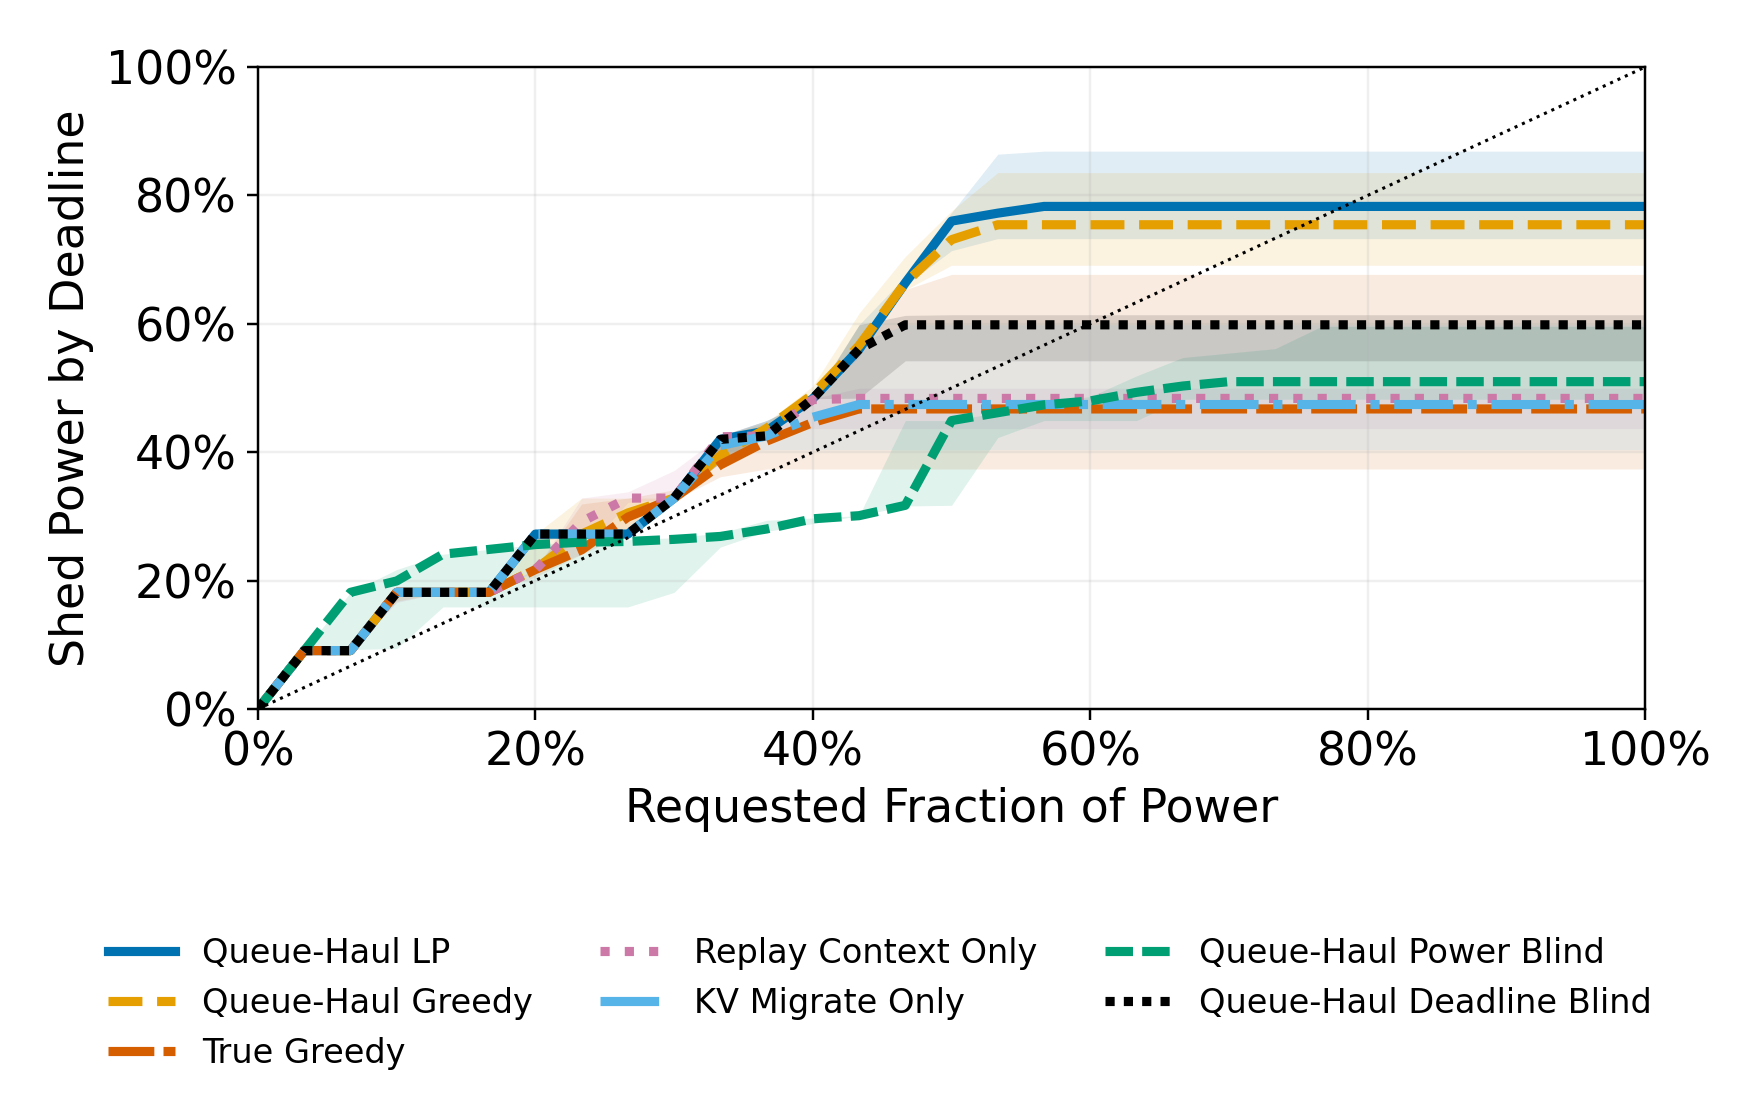
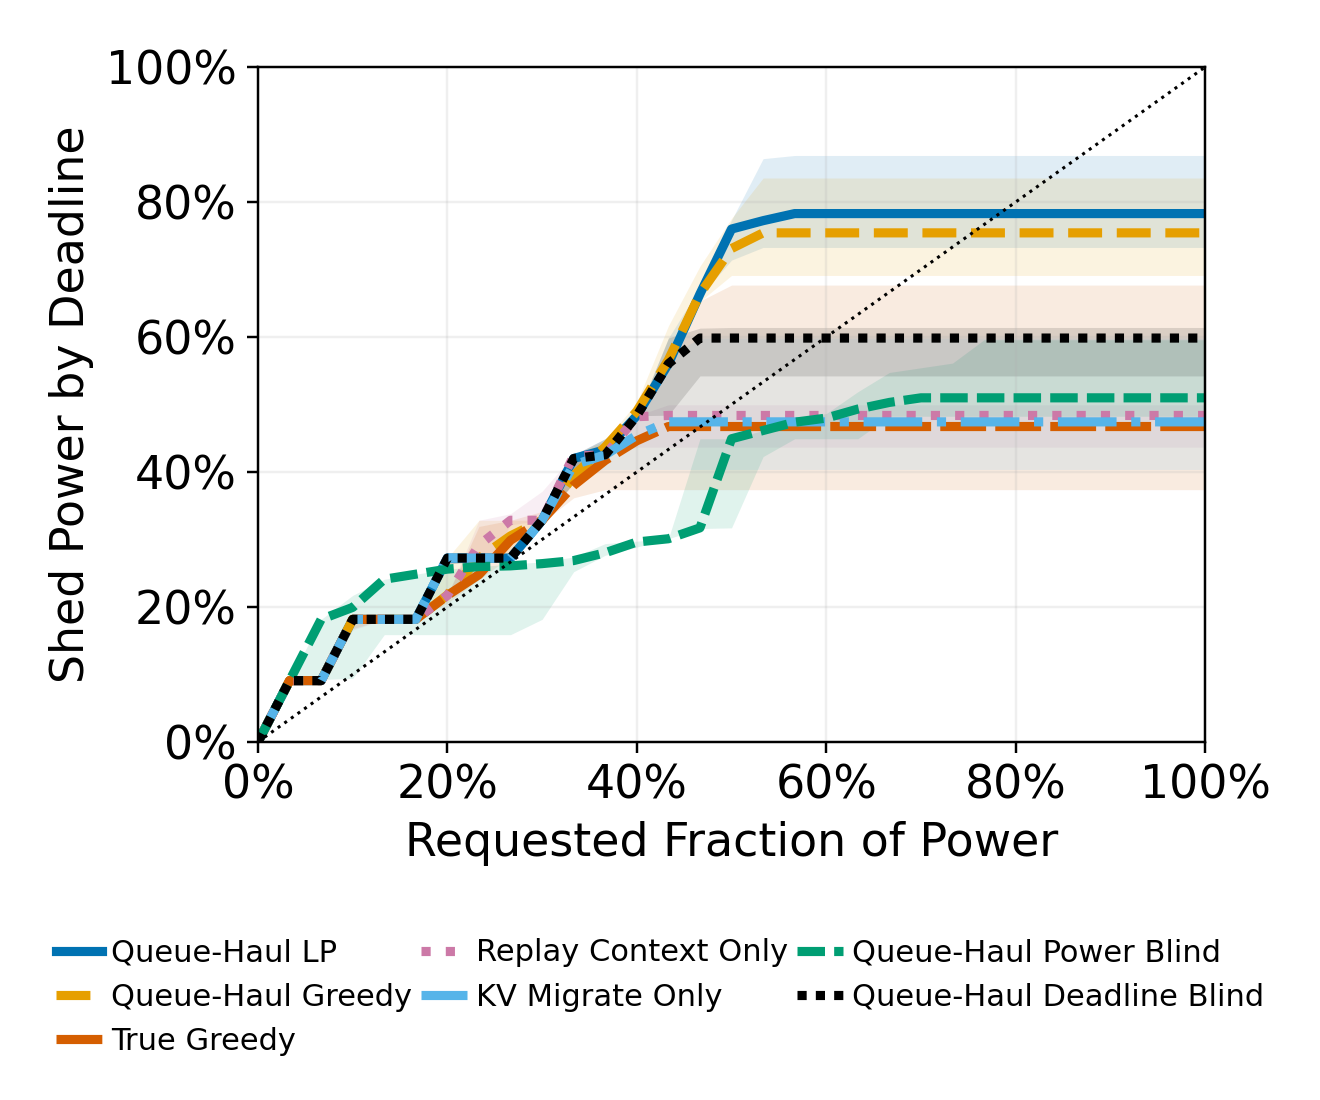
Compact pooled frontier layout

diff --git a/agent-migrate/queue-haul/plot_pooled_shed_frontier.py b/agent-migrate/queue-haul/plot_pooled_shed_frontier.py
@@ -92,7 +92,7 @@ def write_plot(summary, out: Path) -> None:
     import matplotlib.pyplot as plt
     from matplotlib.ticker import PercentFormatter
 
-    fig, axis = plt.subplots(figsize=plot_style.FIGSIZE)
+    fig, axis = plt.subplots(figsize=(6, 5))
     for policy in POLICIES:
         selected = [row for row in summary if row["policy"] == policy]
         x = [row["requested_fraction"] for row in selected]
@@ -114,8 +114,11 @@ def write_plot(summary, out: Path) -> None:
     axis.yaxis.set_major_formatter(PercentFormatter(1))
     axis.grid(alpha=.2)
     handles, labels = axis.get_legend_handles_labels()
-    fig.legend(handles, labels, frameon=False, ncol=3, loc="lower center")
-    fig.tight_layout(rect=(0, .2, 1, 1))
+    fig.legend(handles, labels, frameon=False, fontsize=10, ncol=3,
+               loc="lower center",
+               bbox_to_anchor=(.5, .015), columnspacing=.3,
+               handlelength=1.5, handletextpad=.3)
+    fig.tight_layout(rect=(0, .17, 1, 1))
     for suffix in ("png", "pdf"):
         fig.savefig(out.with_suffix(f".{suffix}"), dpi=plot_style.SAVE_DPI)
     plt.close(fig)
